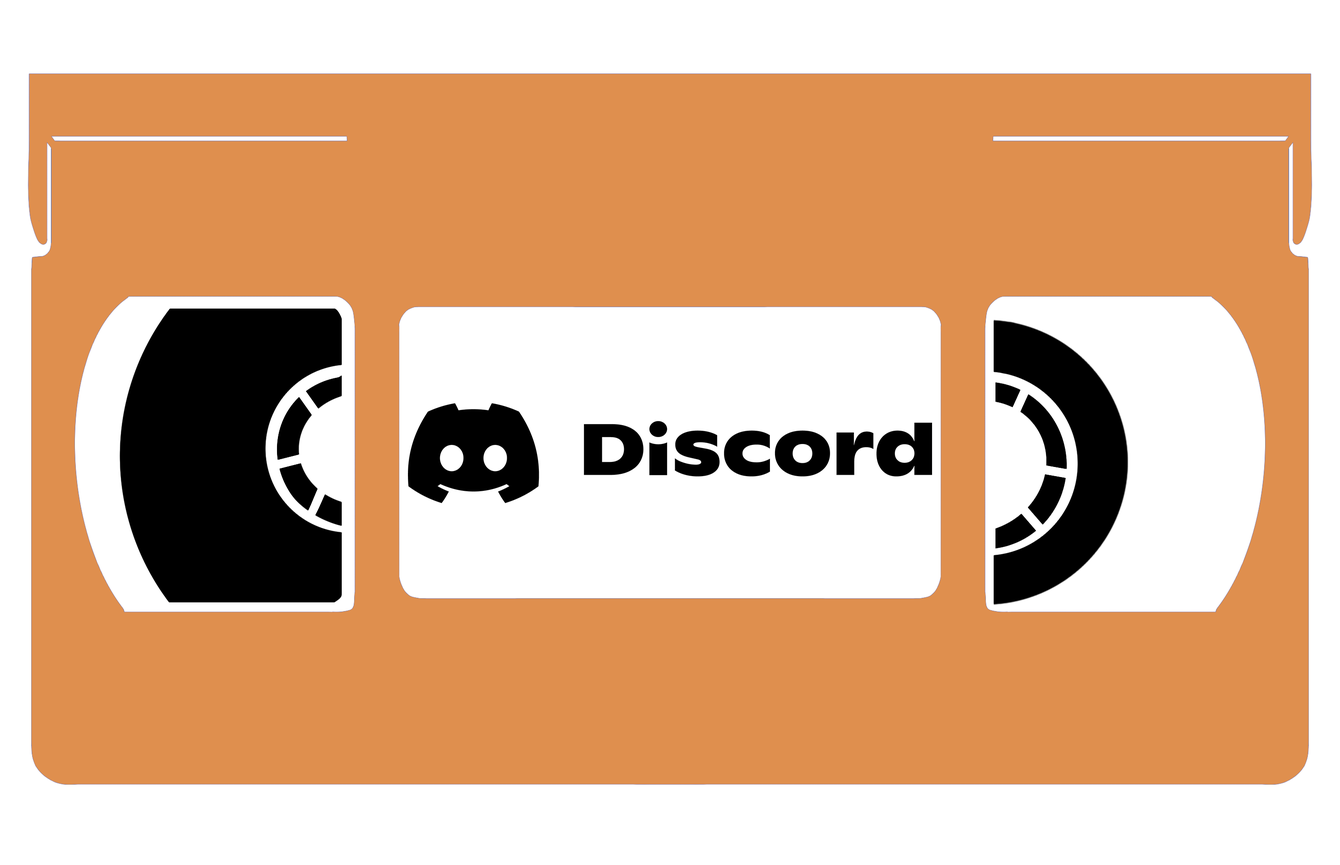
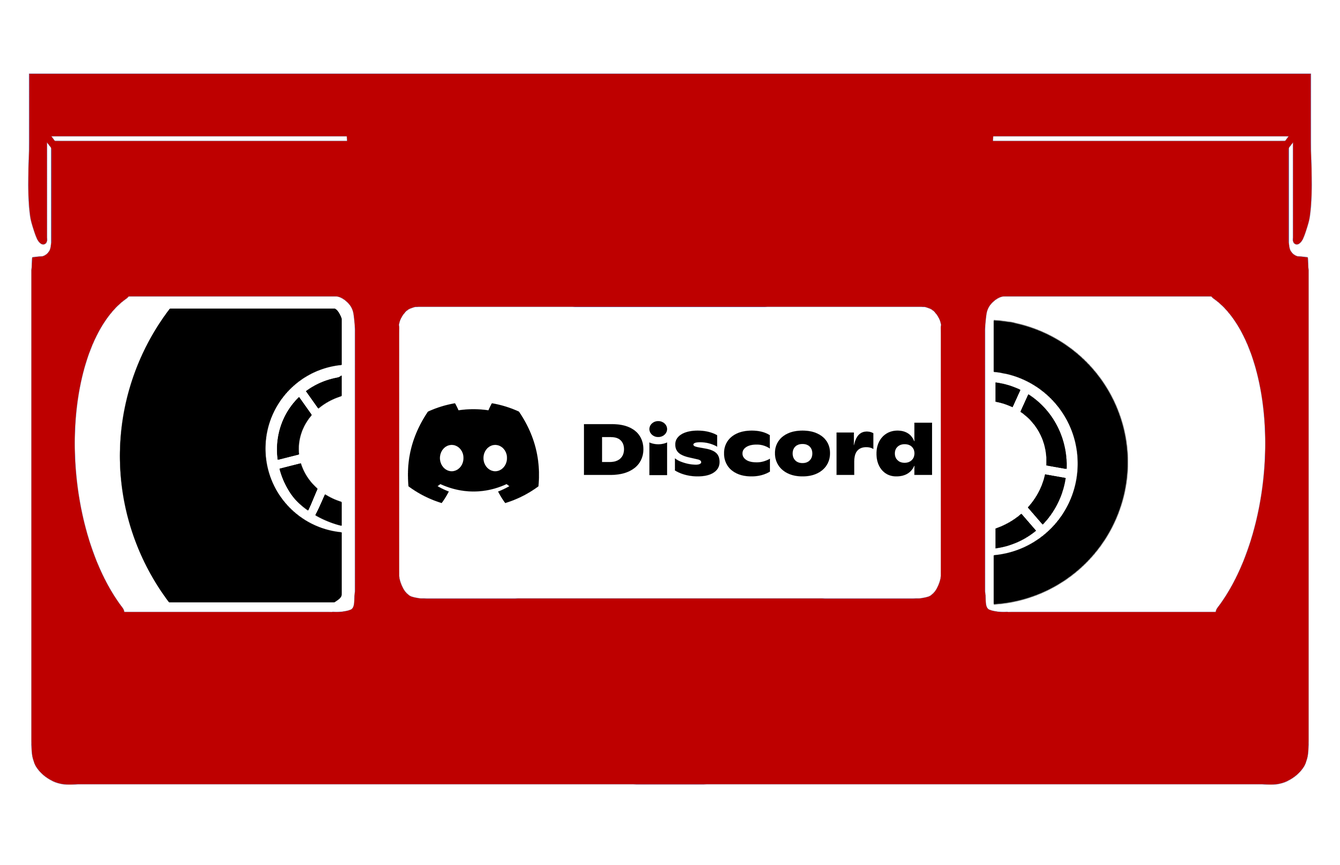
Portfolio Update need to add fishing

diff --git a/index.html b/index.html
@@ -9,36 +9,77 @@
     <meta property="og:description" content="" />
     <title>Jack May</title>
     <link rel="stylesheet" href="style.css">
-    <link rel="icon" href="branding/LogoSmallGreen.png">
+    <link rel="icon" href="branding/PFM_Logo12 - Copy.PNG">
     <meta name="viewport" content="width=device-width, initial-scale=1.0">
 </head>
 
 <body>
     <div class="header">
-        <img src="branding/LogoLongProductionsBaO.png" alt="Jack May Logo">
+        <img class="side-logo" style="max-width: 10vw;" src="branding/PFM_Logo12 - Copy.PNG" alt="Jack May Logo">
+        <img class="main-logo" src="branding/LogoLongProductionsBaO.png" alt="">
+        <img class="side-logo" style="max-width: 10vw;" src="branding/PFM_Logo12 - Copy.PNG" alt="Jack May Logo">
     </div>
 
     <div class="graphic-boxes">
-        <div class="colour1"><p>&shy;</p></div>
-        <div class="colour2"><p>&shy;</p></div>
+        <div class="colour1"><h1 style="color: #FFFFFF; margin-bottom: 0px;">Portfolio of Jack May</h1></div>
+        <div class="colour2">
+            <nav class="navbar">
+                <ul class="nav-links">
+                    <li><a href="unity.html">Unity</a></li>
+                    <li><a href="3dart.html">3D Art</a></li>
+                    <li><a href="unrealengine.html">Unreal</a></li>
+                </ul>
+                <div class="social-links">
+                    <!-- Add your social links here -->
+                    <a href="https://www.instagram.com/jack.may.dev/" target="_blank">
+                        <img src="branding/instagram.png" alt="Instagram" class="social-icon">
+                    </a>
+                    <a href="https://github.com/jackmay942149" target="_blank">
+                        <img src="branding/github.png" alt="GitHub" class="social-icon">
+                    </a>
+                    <a href="https://www.linkedin.com/in/jack-may-50154021b/" target="_blank">
+                        <img src="branding/linkedin.png" alt="LinkedIn" class="social-icon">
+                    </a>
+                    <a href="https://discord.gg/Yjrwbuq6qA" target="_blank">
+                        <img src="branding/discord.png" alt="Discord" class="social-icon">
+                    </a>
+                    <a href="https://jack-may.itch.io/" target="_blank">
+                        <img src="branding/itchio.png" alt="Itch.io" class="social-icon">
+                    </a>
+                </div>
+            </nav>
+        </div>
     </div>
 
-    <h1>Top 3 Projects</h1>
+    <h1>TOP 3 PROJECTS</h1>
 
+    <h2>Virtual International Collaboration - VR Game Development</h2>
+    <div class="showcase">
+        <div class="showcase-left showcase-text">
+            <p>This is a very exiting project I was able to work with as a three way collaborative effort between QUT, Banijay, and Breda University. It was a 6-7 week group project that allowed us to make a VR game using the MasterChef IP.</p>
+        </div>
+        <div class="showcase-right">
+            <center>
+                <blockquote class="instagram-media" data-instgrm-permalink="https://www.instagram.com/reel/C8b52tyvdZP/?utm_source=ig_embed&amp;utm_campaign=loading" data-instgrm-version="14" style=" background:#FFF; border:0; border-radius:3px; box-shadow:0 0 1px 0 rgba(0,0,0,0.5),0 1px 10px 0 rgba(0,0,0,0.15); margin: 1px; max-width:400px; min-width:326px; padding:0; width:99.375%; width:-webkit-calc(100% - 2px); width:calc(100% - 2px);"><div style="padding:16px;"> <a href="https://www.instagram.com/reel/C8b52tyvdZP/?utm_source=ig_embed&amp;utm_campaign=loading" style=" background:#FFFFFF; line-height:0; padding:0 0; text-align:center; text-decoration:none; width:100%;" target="_blank"> <div style=" display: flex; flex-direction: row; align-items: center;"> <div style="background-color: #F4F4F4; border-radius: 50%; flex-grow: 0; height: 40px; margin-right: 14px; width: 40px;"></div> <div style="display: flex; flex-direction: column; flex-grow: 1; justify-content: center;"> <div style=" background-color: #F4F4F4; border-radius: 4px; flex-grow: 0; height: 14px; margin-bottom: 6px; width: 100px;"></div> <div style=" background-color: #F4F4F4; border-radius: 4px; flex-grow: 0; height: 14px; width: 60px;"></div></div></div><div style="padding: 19% 0;"></div> <div style="display:block; height:50px; margin:0 auto 12px; width:50px;"><svg width="50px" height="50px" viewBox="0 0 60 60" version="1.1" xmlns="https://www.w3.org/2000/svg" xmlns:xlink="https://www.w3.org/1999/xlink"><g stroke="none" stroke-width="1" fill="none" fill-rule="evenodd"><g transform="translate(-511.000000, -20.000000)" fill="#000000"><g><path d="M556.869,30.41 C554.814,30.41 553.148,32.076 553.148,34.131 C553.148,36.186 554.814,37.852 556.869,37.852 C558.924,37.852 560.59,36.186 560.59,34.131 C560.59,32.076 558.924,30.41 556.869,30.41 M541,60.657 C535.114,60.657 530.342,55.887 530.342,50 C530.342,44.114 535.114,39.342 541,39.342 C546.887,39.342 551.658,44.114 551.658,50 C551.658,55.887 546.887,60.657 541,60.657 M541,33.886 C532.1,33.886 524.886,41.1 524.886,50 C524.886,58.899 532.1,66.113 541,66.113 C549.9,66.113 557.115,58.899 557.115,50 C557.115,41.1 549.9,33.886 541,33.886 M565.378,62.101 C565.244,65.022 564.756,66.606 564.346,67.663 C563.803,69.06 563.154,70.057 562.106,71.106 C561.058,72.155 560.06,72.803 558.662,73.347 C557.607,73.757 556.021,74.244 553.102,74.378 C549.944,74.521 548.997,74.552 541,74.552 C533.003,74.552 532.056,74.521 528.898,74.378 C525.979,74.244 524.393,73.757 523.338,73.347 C521.94,72.803 520.942,72.155 519.894,71.106 C518.846,70.057 518.197,69.06 517.654,67.663 C517.244,66.606 516.755,65.022 516.623,62.101 C516.479,58.943 516.448,57.996 516.448,50 C516.448,42.003 516.479,41.056 516.623,37.899 C516.755,34.978 517.244,33.391 517.654,32.338 C518.197,30.938 518.846,29.942 519.894,28.894 C520.942,27.846 521.94,27.196 523.338,26.654 C524.393,26.244 525.979,25.756 528.898,25.623 C532.057,25.479 533.004,25.448 541,25.448 C548.997,25.448 549.943,25.479 553.102,25.623 C556.021,25.756 557.607,26.244 558.662,26.654 C560.06,27.196 561.058,27.846 562.106,28.894 C563.154,29.942 563.803,30.938 564.346,32.338 C564.756,33.391 565.244,34.978 565.378,37.899 C565.522,41.056 565.552,42.003 565.552,50 C565.552,57.996 565.522,58.943 565.378,62.101 M570.82,37.631 C570.674,34.438 570.167,32.258 569.425,30.349 C568.659,28.377 567.633,26.702 565.965,25.035 C564.297,23.368 562.623,22.342 560.652,21.575 C558.743,20.834 556.562,20.326 553.369,20.18 C550.169,20.033 549.148,20 541,20 C532.853,20 531.831,20.033 528.631,20.18 C525.438,20.326 523.257,20.834 521.349,21.575 C519.376,22.342 517.703,23.368 516.035,25.035 C514.368,26.702 513.342,28.377 512.574,30.349 C511.834,32.258 511.326,34.438 511.181,37.631 C511.035,40.831 511,41.851 511,50 C511,58.147 511.035,59.17 511.181,62.369 C511.326,65.562 511.834,67.743 512.574,69.651 C513.342,71.625 514.368,73.296 516.035,74.965 C517.703,76.634 519.376,77.658 521.349,78.425 C523.257,79.167 525.438,79.673 528.631,79.82 C531.831,79.965 532.853,80.001 541,80.001 C549.148,80.001 550.169,79.965 553.369,79.82 C556.562,79.673 558.743,79.167 560.652,78.425 C562.623,77.658 564.297,76.634 565.965,74.965 C567.633,73.296 568.659,71.625 569.425,69.651 C570.167,67.743 570.674,65.562 570.82,62.369 C570.966,59.17 571,58.147 571,50 C571,41.851 570.966,40.831 570.82,37.631"></path></g></g></g></svg></div><div style="padding-top: 8px;"> <div style=" color:#3897f0; font-family:Arial,sans-serif; font-size:14px; font-style:normal; font-weight:550; line-height:18px;">View this post on Instagram</div></div><div style="padding: 12.5% 0;"></div> <div style="display: flex; flex-direction: row; margin-bottom: 14px; align-items: center;"><div> <div style="background-color: #F4F4F4; border-radius: 50%; height: 12.5px; width: 12.5px; transform: translateX(0px) translateY(7px);"></div> <div style="background-color: #F4F4F4; height: 12.5px; transform: rotate(-45deg) translateX(3px) translateY(1px); width: 12.5px; flex-grow: 0; margin-right: 14px; margin-left: 2px;"></div> <div style="background-color: #F4F4F4; border-radius: 50%; height: 12.5px; width: 12.5px; transform: translateX(9px) translateY(-18px);"></div></div><div style="margin-left: 8px;"> <div style=" background-color: #F4F4F4; border-radius: 50%; flex-grow: 0; height: 20px; width: 20px;"></div> <div style=" width: 0; height: 0; border-top: 2px solid transparent; border-left: 6px solid #f4f4f4; border-bottom: 2px solid transparent; transform: translateX(16px) translateY(-4px) rotate(30deg)"></div></div><div style="margin-left: auto;"> <div style=" width: 0px; border-top: 8px solid #F4F4F4; border-right: 8px solid transparent; transform: translateY(16px);"></div> <div style=" background-color: #F4F4F4; flex-grow: 0; height: 12px; width: 16px; transform: translateY(-4px);"></div> <div style=" width: 0; height: 0; border-top: 8px solid #F4F4F4; border-left: 8px solid transparent; transform: translateY(-4px) translateX(8px);"></div></div></div> <div style="display: flex; flex-direction: column; flex-grow: 1; justify-content: center; margin-bottom: 24px;"> <div style=" background-color: #F4F4F4; border-radius: 4px; flex-grow: 0; height: 14px; margin-bottom: 6px; width: 224px;"></div> <div style=" background-color: #F4F4F4; border-radius: 4px; flex-grow: 0; height: 14px; width: 144px;"></div></div></a><p style=" color:#c9c8cd; font-family:Arial,sans-serif; font-size:14px; line-height:17px; margin-bottom:0; margin-top:8px; overflow:hidden; padding:8px 0 7px; text-align:center; text-overflow:ellipsis; white-space:nowrap;"><a href="https://www.instagram.com/reel/C8b52tyvdZP/?utm_source=ig_embed&amp;utm_campaign=loading" style=" color:#c9c8cd; font-family:Arial,sans-serif; font-size:14px; font-style:normal; font-weight:normal; line-height:17px; text-decoration:none;" target="_blank">A post shared by @jack.may.dev</a></p></div></blockquote> <script async src="//www.instagram.com/embed.js"></script>
+            </center>
+        </div>
+    </div>
+
+    <h2>Unreal Engine Environmental Showcase</h2>
     <div class="showcase">
         <div class="showcase-left showcase-text">
             <p>This is a project I completed at Queensland University of Technology for the class KNB137. It involved creating an environmetal narrative that could be showcased in Unreal Engine. As an extention I added a very action-based narrative with a runtime vertex painter to give the water some life.</p>
         </div>
         <div class="showcase-right" >
             <center>
-                <blockquote class="instagram-media" data-instgrm-permalink="https://www.instagram.com/reel/C8N0RBQPLbO/?utm_source=ig_embed&amp;utm_campaign=loading" data-instgrm-version="14" style=" background:#FFF; border:0; border-radius:3px; box-shadow:0 0 1px 0 rgba(0,0,0,0.5),0 1px 10px 0 rgba(0,0,0,0.15); margin: 1px; max-width:540px; min-width:326px; padding:0; width:99.375%; width:-webkit-calc(100% - 2px); width:calc(100% - 2px);"><div style="padding:16px;"> <a href="https://www.instagram.com/reel/C8N0RBQPLbO/?utm_source=ig_embed&amp;utm_campaign=loading" style=" background:#FFFFFF; line-height:0; padding:0 0; text-align:center; text-decoration:none; width:100%;" target="_blank"> <div style=" display: flex; flex-direction: row; align-items: center;"> <div style="background-color: #F4F4F4; border-radius: 50%; flex-grow: 0; height: 40px; margin-right: 14px; width: 40px;"></div> <div style="display: flex; flex-direction: column; flex-grow: 1; justify-content: center;"> <div style=" background-color: #F4F4F4; border-radius: 4px; flex-grow: 0; height: 14px; margin-bottom: 6px; width: 100px;"></div> <div style=" background-color: #F4F4F4; border-radius: 4px; flex-grow: 0; height: 14px; width: 60px;"></div></div></div><div style="padding: 19% 0;"></div> <div style="display:block; height:50px; margin:0 auto 12px; width:50px;"><svg width="50px" height="50px" viewBox="0 0 60 60" version="1.1" xmlns="https://www.w3.org/2000/svg" xmlns:xlink="https://www.w3.org/1999/xlink"><g stroke="none" stroke-width="1" fill="none" fill-rule="evenodd"><g transform="translate(-511.000000, -20.000000)" fill="#000000"><g><path d="M556.869,30.41 C554.814,30.41 553.148,32.076 553.148,34.131 C553.148,36.186 554.814,37.852 556.869,37.852 C558.924,37.852 560.59,36.186 560.59,34.131 C560.59,32.076 558.924,30.41 556.869,30.41 M541,60.657 C535.114,60.657 530.342,55.887 530.342,50 C530.342,44.114 535.114,39.342 541,39.342 C546.887,39.342 551.658,44.114 551.658,50 C551.658,55.887 546.887,60.657 541,60.657 M541,33.886 C532.1,33.886 524.886,41.1 524.886,50 C524.886,58.899 532.1,66.113 541,66.113 C549.9,66.113 557.115,58.899 557.115,50 C557.115,41.1 549.9,33.886 541,33.886 M565.378,62.101 C565.244,65.022 564.756,66.606 564.346,67.663 C563.803,69.06 563.154,70.057 562.106,71.106 C561.058,72.155 560.06,72.803 558.662,73.347 C557.607,73.757 556.021,74.244 553.102,74.378 C549.944,74.521 548.997,74.552 541,74.552 C533.003,74.552 532.056,74.521 528.898,74.378 C525.979,74.244 524.393,73.757 523.338,73.347 C521.94,72.803 520.942,72.155 519.894,71.106 C518.846,70.057 518.197,69.06 517.654,67.663 C517.244,66.606 516.755,65.022 516.623,62.101 C516.479,58.943 516.448,57.996 516.448,50 C516.448,42.003 516.479,41.056 516.623,37.899 C516.755,34.978 517.244,33.391 517.654,32.338 C518.197,30.938 518.846,29.942 519.894,28.894 C520.942,27.846 521.94,27.196 523.338,26.654 C524.393,26.244 525.979,25.756 528.898,25.623 C532.057,25.479 533.004,25.448 541,25.448 C548.997,25.448 549.943,25.479 553.102,25.623 C556.021,25.756 557.607,26.244 558.662,26.654 C560.06,27.196 561.058,27.846 562.106,28.894 C563.154,29.942 563.803,30.938 564.346,32.338 C564.756,33.391 565.244,34.978 565.378,37.899 C565.522,41.056 565.552,42.003 565.552,50 C565.552,57.996 565.522,58.943 565.378,62.101 M570.82,37.631 C570.674,34.438 570.167,32.258 569.425,30.349 C568.659,28.377 567.633,26.702 565.965,25.035 C564.297,23.368 562.623,22.342 560.652,21.575 C558.743,20.834 556.562,20.326 553.369,20.18 C550.169,20.033 549.148,20 541,20 C532.853,20 531.831,20.033 528.631,20.18 C525.438,20.326 523.257,20.834 521.349,21.575 C519.376,22.342 517.703,23.368 516.035,25.035 C514.368,26.702 513.342,28.377 512.574,30.349 C511.834,32.258 511.326,34.438 511.181,37.631 C511.035,40.831 511,41.851 511,50 C511,58.147 511.035,59.17 511.181,62.369 C511.326,65.562 511.834,67.743 512.574,69.651 C513.342,71.625 514.368,73.296 516.035,74.965 C517.703,76.634 519.376,77.658 521.349,78.425 C523.257,79.167 525.438,79.673 528.631,79.82 C531.831,79.965 532.853,80.001 541,80.001 C549.148,80.001 550.169,79.965 553.369,79.82 C556.562,79.673 558.743,79.167 560.652,78.425 C562.623,77.658 564.297,76.634 565.965,74.965 C567.633,73.296 568.659,71.625 569.425,69.651 C570.167,67.743 570.674,65.562 570.82,62.369 C570.966,59.17 571,58.147 571,50 C571,41.851 570.966,40.831 570.82,37.631"></path></g></g></g></svg></div><div style="padding-top: 8px;"> <div style=" color:#3897f0; font-family:Arial,sans-serif; font-size:14px; font-style:normal; font-weight:550; line-height:18px;">View this post on Instagram</div></div><div style="padding: 12.5% 0;"></div> <div style="display: flex; flex-direction: row; margin-bottom: 14px; align-items: center;"><div> <div style="background-color: #F4F4F4; border-radius: 50%; height: 12.5px; width: 12.5px; transform: translateX(0px) translateY(7px);"></div> <div style="background-color: #F4F4F4; height: 12.5px; transform: rotate(-45deg) translateX(3px) translateY(1px); width: 12.5px; flex-grow: 0; margin-right: 14px; margin-left: 2px;"></div> <div style="background-color: #F4F4F4; border-radius: 50%; height: 12.5px; width: 12.5px; transform: translateX(9px) translateY(-18px);"></div></div><div style="margin-left: 8px;"> <div style=" background-color: #F4F4F4; border-radius: 50%; flex-grow: 0; height: 20px; width: 20px;"></div> <div style=" width: 0; height: 0; border-top: 2px solid transparent; border-left: 6px solid #f4f4f4; border-bottom: 2px solid transparent; transform: translateX(16px) translateY(-4px) rotate(30deg)"></div></div><div style="margin-left: auto;"> <div style=" width: 0px; border-top: 8px solid #F4F4F4; border-right: 8px solid transparent; transform: translateY(16px);"></div> <div style=" background-color: #F4F4F4; flex-grow: 0; height: 12px; width: 16px; transform: translateY(-4px);"></div> <div style=" width: 0; height: 0; border-top: 8px solid #F4F4F4; border-left: 8px solid transparent; transform: translateY(-4px) translateX(8px);"></div></div></div> <div style="display: flex; flex-direction: column; flex-grow: 1; justify-content: center; margin-bottom: 24px;"> <div style=" background-color: #F4F4F4; border-radius: 4px; flex-grow: 0; height: 14px; margin-bottom: 6px; width: 224px;"></div> <div style=" background-color: #F4F4F4; border-radius: 4px; flex-grow: 0; height: 14px; width: 144px;"></div></div></a><p style=" color:#c9c8cd; font-family:Arial,sans-serif; font-size:14px; line-height:17px; margin-bottom:0; margin-top:8px; overflow:hidden; padding:8px 0 7px; text-align:center; text-overflow:ellipsis; white-space:nowrap;"><a href="https://www.instagram.com/reel/C8N0RBQPLbO/?utm_source=ig_embed&amp;utm_campaign=loading" style=" color:#c9c8cd; font-family:Arial,sans-serif; font-size:14px; font-style:normal; font-weight:normal; line-height:17px; text-decoration:none;" target="_blank">A post shared by @jack.may.dev</a></p></div></blockquote> <script async src="//www.instagram.com/embed.js"></script>
+                <blockquote class="instagram-media" data-instgrm-permalink="https://www.instagram.com/reel/C8N0RBQPLbO/?utm_source=ig_embed&amp;utm_campaign=loading" data-instgrm-version="14" style=" background:#FFF; border:0; border-radius:3px; box-shadow:0 0 1px 0 rgba(0,0,0,0.5),0 1px 10px 0 rgba(0,0,0,0.15); margin: 1px; max-width:400px; min-width:326px; padding:0; width:99.375%; width:-webkit-calc(100% - 2px); width:calc(100% - 2px);"><div style="padding:16px;"> <a href="https://www.instagram.com/reel/C8N0RBQPLbO/?utm_source=ig_embed&amp;utm_campaign=loading" style=" background:#FFFFFF; line-height:0; padding:0 0; text-align:center; text-decoration:none; width:100%;" target="_blank"> <div style=" display: flex; flex-direction: row; align-items: center;"> <div style="background-color: #F4F4F4; border-radius: 50%; flex-grow: 0; height: 40px; margin-right: 14px; width: 40px;"></div> <div style="display: flex; flex-direction: column; flex-grow: 1; justify-content: center;"> <div style=" background-color: #F4F4F4; border-radius: 4px; flex-grow: 0; height: 14px; margin-bottom: 6px; width: 100px;"></div> <div style=" background-color: #F4F4F4; border-radius: 4px; flex-grow: 0; height: 14px; width: 60px;"></div></div></div><div style="padding: 19% 0;"></div> <div style="display:block; height:50px; margin:0 auto 12px; width:50px;"><svg width="50px" height="50px" viewBox="0 0 60 60" version="1.1" xmlns="https://www.w3.org/2000/svg" xmlns:xlink="https://www.w3.org/1999/xlink"><g stroke="none" stroke-width="1" fill="none" fill-rule="evenodd"><g transform="translate(-511.000000, -20.000000)" fill="#000000"><g><path d="M556.869,30.41 C554.814,30.41 553.148,32.076 553.148,34.131 C553.148,36.186 554.814,37.852 556.869,37.852 C558.924,37.852 560.59,36.186 560.59,34.131 C560.59,32.076 558.924,30.41 556.869,30.41 M541,60.657 C535.114,60.657 530.342,55.887 530.342,50 C530.342,44.114 535.114,39.342 541,39.342 C546.887,39.342 551.658,44.114 551.658,50 C551.658,55.887 546.887,60.657 541,60.657 M541,33.886 C532.1,33.886 524.886,41.1 524.886,50 C524.886,58.899 532.1,66.113 541,66.113 C549.9,66.113 557.115,58.899 557.115,50 C557.115,41.1 549.9,33.886 541,33.886 M565.378,62.101 C565.244,65.022 564.756,66.606 564.346,67.663 C563.803,69.06 563.154,70.057 562.106,71.106 C561.058,72.155 560.06,72.803 558.662,73.347 C557.607,73.757 556.021,74.244 553.102,74.378 C549.944,74.521 548.997,74.552 541,74.552 C533.003,74.552 532.056,74.521 528.898,74.378 C525.979,74.244 524.393,73.757 523.338,73.347 C521.94,72.803 520.942,72.155 519.894,71.106 C518.846,70.057 518.197,69.06 517.654,67.663 C517.244,66.606 516.755,65.022 516.623,62.101 C516.479,58.943 516.448,57.996 516.448,50 C516.448,42.003 516.479,41.056 516.623,37.899 C516.755,34.978 517.244,33.391 517.654,32.338 C518.197,30.938 518.846,29.942 519.894,28.894 C520.942,27.846 521.94,27.196 523.338,26.654 C524.393,26.244 525.979,25.756 528.898,25.623 C532.057,25.479 533.004,25.448 541,25.448 C548.997,25.448 549.943,25.479 553.102,25.623 C556.021,25.756 557.607,26.244 558.662,26.654 C560.06,27.196 561.058,27.846 562.106,28.894 C563.154,29.942 563.803,30.938 564.346,32.338 C564.756,33.391 565.244,34.978 565.378,37.899 C565.522,41.056 565.552,42.003 565.552,50 C565.552,57.996 565.522,58.943 565.378,62.101 M570.82,37.631 C570.674,34.438 570.167,32.258 569.425,30.349 C568.659,28.377 567.633,26.702 565.965,25.035 C564.297,23.368 562.623,22.342 560.652,21.575 C558.743,20.834 556.562,20.326 553.369,20.18 C550.169,20.033 549.148,20 541,20 C532.853,20 531.831,20.033 528.631,20.18 C525.438,20.326 523.257,20.834 521.349,21.575 C519.376,22.342 517.703,23.368 516.035,25.035 C514.368,26.702 513.342,28.377 512.574,30.349 C511.834,32.258 511.326,34.438 511.181,37.631 C511.035,40.831 511,41.851 511,50 C511,58.147 511.035,59.17 511.181,62.369 C511.326,65.562 511.834,67.743 512.574,69.651 C513.342,71.625 514.368,73.296 516.035,74.965 C517.703,76.634 519.376,77.658 521.349,78.425 C523.257,79.167 525.438,79.673 528.631,79.82 C531.831,79.965 532.853,80.001 541,80.001 C549.148,80.001 550.169,79.965 553.369,79.82 C556.562,79.673 558.743,79.167 560.652,78.425 C562.623,77.658 564.297,76.634 565.965,74.965 C567.633,73.296 568.659,71.625 569.425,69.651 C570.167,67.743 570.674,65.562 570.82,62.369 C570.966,59.17 571,58.147 571,50 C571,41.851 570.966,40.831 570.82,37.631"></path></g></g></g></svg></div><div style="padding-top: 8px;"> <div style=" color:#3897f0; font-family:Arial,sans-serif; font-size:14px; font-style:normal; font-weight:550; line-height:18px;">View this post on Instagram</div></div><div style="padding: 12.5% 0;"></div> <div style="display: flex; flex-direction: row; margin-bottom: 14px; align-items: center;"><div> <div style="background-color: #F4F4F4; border-radius: 50%; height: 12.5px; width: 12.5px; transform: translateX(0px) translateY(7px);"></div> <div style="background-color: #F4F4F4; height: 12.5px; transform: rotate(-45deg) translateX(3px) translateY(1px); width: 12.5px; flex-grow: 0; margin-right: 14px; margin-left: 2px;"></div> <div style="background-color: #F4F4F4; border-radius: 50%; height: 12.5px; width: 12.5px; transform: translateX(9px) translateY(-18px);"></div></div><div style="margin-left: 8px;"> <div style=" background-color: #F4F4F4; border-radius: 50%; flex-grow: 0; height: 20px; width: 20px;"></div> <div style=" width: 0; height: 0; border-top: 2px solid transparent; border-left: 6px solid #f4f4f4; border-bottom: 2px solid transparent; transform: translateX(16px) translateY(-4px) rotate(30deg)"></div></div><div style="margin-left: auto;"> <div style=" width: 0px; border-top: 8px solid #F4F4F4; border-right: 8px solid transparent; transform: translateY(16px);"></div> <div style=" background-color: #F4F4F4; flex-grow: 0; height: 12px; width: 16px; transform: translateY(-4px);"></div> <div style=" width: 0; height: 0; border-top: 8px solid #F4F4F4; border-left: 8px solid transparent; transform: translateY(-4px) translateX(8px);"></div></div></div> <div style="display: flex; flex-direction: column; flex-grow: 1; justify-content: center; margin-bottom: 24px;"> <div style=" background-color: #F4F4F4; border-radius: 4px; flex-grow: 0; height: 14px; margin-bottom: 6px; width: 224px;"></div> <div style=" background-color: #F4F4F4; border-radius: 4px; flex-grow: 0; height: 14px; width: 144px;"></div></div></a><p style=" color:#c9c8cd; font-family:Arial,sans-serif; font-size:14px; line-height:17px; margin-bottom:0; margin-top:8px; overflow:hidden; padding:8px 0 7px; text-align:center; text-overflow:ellipsis; white-space:nowrap;"><a href="https://www.instagram.com/reel/C8N0RBQPLbO/?utm_source=ig_embed&amp;utm_campaign=loading" style=" color:#c9c8cd; font-family:Arial,sans-serif; font-size:14px; font-style:normal; font-weight:normal; line-height:17px; text-decoration:none;" target="_blank">A post shared by @jack.may.dev</a></p></div></blockquote> <script async src="//www.instagram.com/embed.js"></script>
             </center>
         </div>
     </div>
 
 
 
-    <h1 style="color: #4e9dde;">Full Portfolio</h1>
+    <h1>Full Portfolio</h1>
     <div class="vhs-tapes">
         <a href="./unrealengine.html"><img src="branding/UEVHS.png" alt=""></a>
         <a href="./3dart.html"><img src="branding/3DARTVHS.png" alt=""></a>
@@ -48,9 +89,10 @@
 
     <h1>Networking</h1>
     <div class="vhs-tapes">
-        <a href="https://www.instagram.com/jackmay3dart/"><img src="branding/InstagramIOVHS.png" alt=""></a>
+        <a href="https://www.instagram.com/jack.may.dev/"><img src="branding/InstagramIOVHS.png" alt=""></a>
         <a href="https://www.linkedin.com/in/jack-may-50154021b/"><img src="branding/LinkedInVHS.png" alt=""></a>
         <a href="https://discord.gg/Yjrwbuq6qA"><img src="branding/DiscordVHS.png" alt=""></a>
         <a href="https://github.com/jackmay942149"><img src="branding\GitHubVHS.png" alt=""></a>
+        <a href="https://jack-may.itch.io/"><img src="branding\ItchIOVHS.PNG" alt=""></a>
     </div>
 </body>

diff --git a/unity.html b/unity.html
@@ -15,15 +15,55 @@
 
 <body>
     <div class="header">
-        <a href="./index.html"><img src="branding/LogoLongProductionsBaO.png" alt="Jack May Logo"></a>
+        <img class="side-logo" style="max-width: 10vw;" src="branding/PFM_Logo12 - Copy.PNG" alt="Jack May Logo">
+        <img class="main-logo" src="branding/LogoLongProductionsBaO.png" alt="">
+        <img class="side-logo" style="max-width: 10vw;" src="branding/PFM_Logo12 - Copy.PNG" alt="Jack May Logo">
     </div>
 
     <div class="graphic-boxes">
-        <div class="colour1"><p>&shy;</p></div>
-        <div class="colour2"><p>&shy;</p></div>
+        <div class="colour1"><h1 style="color: #FFFFFF; margin-bottom: 0px;">Portfolio of Jack May</h1></div>
+        <div class="colour2">
+            <nav class="navbar">
+                <ul class="nav-links">
+                    <li><a href="index.html">Top 3</a></li>
+                    <li><a href="3dart.html">3D Art</a></li>
+                    <li><a href="unrealengine.html">Unreal</a></li>
+                </ul>
+                <div class="social-links">
+                    <!-- Add your social links here -->
+                    <a href="https://instagram.com" target="_blank">
+                        <img src="branding/instagram.png" alt="Instagram" class="social-icon">
+                    </a>
+                    <a href="https://github.com" target="_blank">
+                        <img src="branding/github.png" alt="GitHub" class="social-icon">
+                    </a>
+                    <a href="https://linkedin.com" target="_blank">
+                        <img src="branding/linkedin.png" alt="LinkedIn" class="social-icon">
+                    </a>
+                    <a href="https://discord.com" target="_blank">
+                        <img src="branding/discord.png" alt="Discord" class="social-icon">
+                    </a>
+                    <a href="https://itch.io" target="_blank">
+                        <img src="branding/itchio.png" alt="Itch.io" class="social-icon">
+                    </a>
+                </div>
+            </nav>
+        </div>
     </div>
 
     <h1>Unity Projects</h1>
+
+    <h2>Virtual International Collaboration -  VR Game Development</h2>
+    <div class="showcase">
+        <div class="showcase-left showcase-text">
+            <p>This is a very exiting project I was able to work with as a three way collaborative effort between QUT, Banijay, and Breda University. It was a 6-7 week group project that allowed us to make a VR game using the MasterChef IP.</p>
+        </div>
+        <div class="showcase-right">
+            <center>
+                <blockquote class="instagram-media" data-instgrm-permalink="https://www.instagram.com/reel/C8b52tyvdZP/?utm_source=ig_embed&amp;utm_campaign=loading" data-instgrm-version="14" style=" background:#FFF; border:0; border-radius:3px; box-shadow:0 0 1px 0 rgba(0,0,0,0.5),0 1px 10px 0 rgba(0,0,0,0.15); margin: 1px; max-width:540px; min-width:326px; padding:0; width:99.375%; width:-webkit-calc(100% - 2px); width:calc(100% - 2px);"><div style="padding:16px;"> <a href="https://www.instagram.com/reel/C8b52tyvdZP/?utm_source=ig_embed&amp;utm_campaign=loading" style=" background:#FFFFFF; line-height:0; padding:0 0; text-align:center; text-decoration:none; width:100%;" target="_blank"> <div style=" display: flex; flex-direction: row; align-items: center;"> <div style="background-color: #F4F4F4; border-radius: 50%; flex-grow: 0; height: 40px; margin-right: 14px; width: 40px;"></div> <div style="display: flex; flex-direction: column; flex-grow: 1; justify-content: center;"> <div style=" background-color: #F4F4F4; border-radius: 4px; flex-grow: 0; height: 14px; margin-bottom: 6px; width: 100px;"></div> <div style=" background-color: #F4F4F4; border-radius: 4px; flex-grow: 0; height: 14px; width: 60px;"></div></div></div><div style="padding: 19% 0;"></div> <div style="display:block; height:50px; margin:0 auto 12px; width:50px;"><svg width="50px" height="50px" viewBox="0 0 60 60" version="1.1" xmlns="https://www.w3.org/2000/svg" xmlns:xlink="https://www.w3.org/1999/xlink"><g stroke="none" stroke-width="1" fill="none" fill-rule="evenodd"><g transform="translate(-511.000000, -20.000000)" fill="#000000"><g><path d="M556.869,30.41 C554.814,30.41 553.148,32.076 553.148,34.131 C553.148,36.186 554.814,37.852 556.869,37.852 C558.924,37.852 560.59,36.186 560.59,34.131 C560.59,32.076 558.924,30.41 556.869,30.41 M541,60.657 C535.114,60.657 530.342,55.887 530.342,50 C530.342,44.114 535.114,39.342 541,39.342 C546.887,39.342 551.658,44.114 551.658,50 C551.658,55.887 546.887,60.657 541,60.657 M541,33.886 C532.1,33.886 524.886,41.1 524.886,50 C524.886,58.899 532.1,66.113 541,66.113 C549.9,66.113 557.115,58.899 557.115,50 C557.115,41.1 549.9,33.886 541,33.886 M565.378,62.101 C565.244,65.022 564.756,66.606 564.346,67.663 C563.803,69.06 563.154,70.057 562.106,71.106 C561.058,72.155 560.06,72.803 558.662,73.347 C557.607,73.757 556.021,74.244 553.102,74.378 C549.944,74.521 548.997,74.552 541,74.552 C533.003,74.552 532.056,74.521 528.898,74.378 C525.979,74.244 524.393,73.757 523.338,73.347 C521.94,72.803 520.942,72.155 519.894,71.106 C518.846,70.057 518.197,69.06 517.654,67.663 C517.244,66.606 516.755,65.022 516.623,62.101 C516.479,58.943 516.448,57.996 516.448,50 C516.448,42.003 516.479,41.056 516.623,37.899 C516.755,34.978 517.244,33.391 517.654,32.338 C518.197,30.938 518.846,29.942 519.894,28.894 C520.942,27.846 521.94,27.196 523.338,26.654 C524.393,26.244 525.979,25.756 528.898,25.623 C532.057,25.479 533.004,25.448 541,25.448 C548.997,25.448 549.943,25.479 553.102,25.623 C556.021,25.756 557.607,26.244 558.662,26.654 C560.06,27.196 561.058,27.846 562.106,28.894 C563.154,29.942 563.803,30.938 564.346,32.338 C564.756,33.391 565.244,34.978 565.378,37.899 C565.522,41.056 565.552,42.003 565.552,50 C565.552,57.996 565.522,58.943 565.378,62.101 M570.82,37.631 C570.674,34.438 570.167,32.258 569.425,30.349 C568.659,28.377 567.633,26.702 565.965,25.035 C564.297,23.368 562.623,22.342 560.652,21.575 C558.743,20.834 556.562,20.326 553.369,20.18 C550.169,20.033 549.148,20 541,20 C532.853,20 531.831,20.033 528.631,20.18 C525.438,20.326 523.257,20.834 521.349,21.575 C519.376,22.342 517.703,23.368 516.035,25.035 C514.368,26.702 513.342,28.377 512.574,30.349 C511.834,32.258 511.326,34.438 511.181,37.631 C511.035,40.831 511,41.851 511,50 C511,58.147 511.035,59.17 511.181,62.369 C511.326,65.562 511.834,67.743 512.574,69.651 C513.342,71.625 514.368,73.296 516.035,74.965 C517.703,76.634 519.376,77.658 521.349,78.425 C523.257,79.167 525.438,79.673 528.631,79.82 C531.831,79.965 532.853,80.001 541,80.001 C549.148,80.001 550.169,79.965 553.369,79.82 C556.562,79.673 558.743,79.167 560.652,78.425 C562.623,77.658 564.297,76.634 565.965,74.965 C567.633,73.296 568.659,71.625 569.425,69.651 C570.167,67.743 570.674,65.562 570.82,62.369 C570.966,59.17 571,58.147 571,50 C571,41.851 570.966,40.831 570.82,37.631"></path></g></g></g></svg></div><div style="padding-top: 8px;"> <div style=" color:#3897f0; font-family:Arial,sans-serif; font-size:14px; font-style:normal; font-weight:550; line-height:18px;">View this post on Instagram</div></div><div style="padding: 12.5% 0;"></div> <div style="display: flex; flex-direction: row; margin-bottom: 14px; align-items: center;"><div> <div style="background-color: #F4F4F4; border-radius: 50%; height: 12.5px; width: 12.5px; transform: translateX(0px) translateY(7px);"></div> <div style="background-color: #F4F4F4; height: 12.5px; transform: rotate(-45deg) translateX(3px) translateY(1px); width: 12.5px; flex-grow: 0; margin-right: 14px; margin-left: 2px;"></div> <div style="background-color: #F4F4F4; border-radius: 50%; height: 12.5px; width: 12.5px; transform: translateX(9px) translateY(-18px);"></div></div><div style="margin-left: 8px;"> <div style=" background-color: #F4F4F4; border-radius: 50%; flex-grow: 0; height: 20px; width: 20px;"></div> <div style=" width: 0; height: 0; border-top: 2px solid transparent; border-left: 6px solid #f4f4f4; border-bottom: 2px solid transparent; transform: translateX(16px) translateY(-4px) rotate(30deg)"></div></div><div style="margin-left: auto;"> <div style=" width: 0px; border-top: 8px solid #F4F4F4; border-right: 8px solid transparent; transform: translateY(16px);"></div> <div style=" background-color: #F4F4F4; flex-grow: 0; height: 12px; width: 16px; transform: translateY(-4px);"></div> <div style=" width: 0; height: 0; border-top: 8px solid #F4F4F4; border-left: 8px solid transparent; transform: translateY(-4px) translateX(8px);"></div></div></div> <div style="display: flex; flex-direction: column; flex-grow: 1; justify-content: center; margin-bottom: 24px;"> <div style=" background-color: #F4F4F4; border-radius: 4px; flex-grow: 0; height: 14px; margin-bottom: 6px; width: 224px;"></div> <div style=" background-color: #F4F4F4; border-radius: 4px; flex-grow: 0; height: 14px; width: 144px;"></div></div></a><p style=" color:#c9c8cd; font-family:Arial,sans-serif; font-size:14px; line-height:17px; margin-bottom:0; margin-top:8px; overflow:hidden; padding:8px 0 7px; text-align:center; text-overflow:ellipsis; white-space:nowrap;"><a href="https://www.instagram.com/reel/C8b52tyvdZP/?utm_source=ig_embed&amp;utm_campaign=loading" style=" color:#c9c8cd; font-family:Arial,sans-serif; font-size:14px; font-style:normal; font-weight:normal; line-height:17px; text-decoration:none;" target="_blank">A post shared by @jack.may.dev</a></p></div></blockquote> <script async src="//www.instagram.com/embed.js"></script>
+            </center>
+        </div>
+    </div>
 
     <h2>Solo Game-Jam</h2>
     <div class="showcase">

diff --git a/unrealengine.html b/unrealengine.html
@@ -15,12 +15,40 @@
 
 <body>
     <div class="header">
-        <a href="./index.html"><img src="branding/LogoLongProductionsBaO.png" alt="Jack May Logo"></a>
+        <img class="side-logo" style="max-width: 10vw;" src="branding/PFM_Logo12 - Copy.PNG" alt="Jack May Logo">
+        <img class="main-logo" src="branding/LogoLongProductionsBaO.png" alt="">
+        <img class="side-logo" style="max-width: 10vw;" src="branding/PFM_Logo12 - Copy.PNG" alt="Jack May Logo">
     </div>
 
     <div class="graphic-boxes">
-        <div class="colour1"><p>&shy;</p></div>
-        <div class="colour2"><p>&shy;</p></div>
+        <div class="colour1"><h1 style="color: #FFFFFF; margin-bottom: 0px;">Portfolio of Jack May</h1></div>
+        <div class="colour2">
+            <nav class="navbar">
+                <ul class="nav-links">
+                    <li><a href="index.html">Top 3</a></li>
+                    <li><a href="unity.html">Unity</a></li>
+                    <li><a href="3dart.html">3D Art</a></li>
+                </ul>
+                <div class="social-links">
+                    <!-- Add your social links here -->
+                    <a href="https://instagram.com" target="_blank">
+                        <img src="branding/instagram.png" alt="Instagram" class="social-icon">
+                    </a>
+                    <a href="https://github.com" target="_blank">
+                        <img src="branding/github.png" alt="GitHub" class="social-icon">
+                    </a>
+                    <a href="https://linkedin.com" target="_blank">
+                        <img src="branding/linkedin.png" alt="LinkedIn" class="social-icon">
+                    </a>
+                    <a href="https://discord.com" target="_blank">
+                        <img src="branding/discord.png" alt="Discord" class="social-icon">
+                    </a>
+                    <a href="https://itch.io" target="_blank">
+                        <img src="branding/itchio.png" alt="Itch.io" class="social-icon">
+                    </a>
+                </div>
+            </nav>
+        </div>
     </div>
 
     <h1>Unreal Engine Projects</h1>
@@ -68,7 +96,7 @@
             </center>
         </div>
         <div class="showcase-right showcase-text">
-            <p>This is a project I completed at Queensland University if Technology for the class KNB137. It involved the creation of 3D assets and the use of several Unreal tools including foliage and vertex painting</p>
+            <p>This is a project I completed at Queensland University if Technology for the class KNB137. It involved the creation of 3D assets and the use of several Unreal tools including foliage and vertex painting.</p>
         </div>
     </div>
 </body>

diff --git a/3dart.html b/3dart.html
@@ -15,12 +15,40 @@
 
 <body>
     <div class="header">
-        <a href="./index.html"><img src="branding/LogoLongProductionsBaO.png" alt="Jack May Logo"></a>
+        <img class="side-logo" style="max-width: 10vw;" src="branding/PFM_Logo12 - Copy.PNG" alt="Jack May Logo">
+        <img class="main-logo" src="branding/LogoLongProductionsBaO.png" alt="">
+        <img class="side-logo" style="max-width: 10vw;" src="branding/PFM_Logo12 - Copy.PNG" alt="Jack May Logo">
     </div>
 
     <div class="graphic-boxes">
-        <div class="colour1"><p>&shy;</p></div>
-        <div class="colour2"><p>&shy;</p></div>
+        <div class="colour1"><h1 style="color: #FFFFFF; margin-bottom: 0px;">Portfolio of Jack May</h1></div>
+        <div class="colour2">
+            <nav class="navbar">
+                <ul class="nav-links">
+                    <li><a href="index.html">Top 3</a></li>
+                    <li><a href="unity.html">Unity</a></li>
+                    <li><a href="unrealengine.html">Unreal</a></li>
+                </ul>
+                <div class="social-links">
+                    <!-- Add your social links here -->
+                    <a href="https://instagram.com" target="_blank">
+                        <img src="branding/instagram.png" alt="Instagram" class="social-icon">
+                    </a>
+                    <a href="https://github.com" target="_blank">
+                        <img src="branding/github.png" alt="GitHub" class="social-icon">
+                    </a>
+                    <a href="https://linkedin.com" target="_blank">
+                        <img src="branding/linkedin.png" alt="LinkedIn" class="social-icon">
+                    </a>
+                    <a href="https://discord.com" target="_blank">
+                        <img src="branding/discord.png" alt="Discord" class="social-icon">
+                    </a>
+                    <a href="https://itch.io" target="_blank">
+                        <img src="branding/itchio.png" alt="Itch.io" class="social-icon">
+                    </a>
+                </div>
+            </nav>
+        </div>
     </div>
 
     <h1>3D Art Projects</h1>

diff --git a/style.css b/style.css
@@ -3,7 +3,7 @@
 body {
     margin: 0px;
     background-color: #ffffff;
-    color: #df8f4e;
+    color: rgb(0, 0, 0);
     text-align: center;
     font-size: 32px;
     font-family: 'Cascadia Code', sans-serif;
@@ -26,28 +26,100 @@ h2 {
 }
 
 .header img {
-    max-width: 60vw;
     padding: 12px;
+}
+
+.main-logo {
+    max-width: 35vw;
 }
 
 @media (max-width: 1000px)
 {
     .header img {
-        max-width: 90vw;
+        max-width: 50vw;
         padding: 12px;
     }
 
     body {
         font-size: 16px;
     }
+
+    .side-logo {
+        display: none;
+    }
+
+    .main-logo {
+        min-width: 70vw;
+    }
 }
 
 .colour1 {
-    background-color: #4e9dde   
+    background-color: rgb(0, 0, 0);   
 }
 
 .colour2 {
-    background-color: #df8f4e;
+    background-color: rgb(190, 0, 0);
+}
+
+.navbar {
+    display: flex;
+    justify-content: space-between;
+    align-items: center;
+    padding: 10px 20px;
+}
+
+.nav-links {
+    list-style: none;
+    padding: 0;
+    margin: 0;
+    display: flex;
+}
+
+.nav-links li {
+    margin-right: 40px;
+}
+
+.nav-links a {
+    color: white;
+    text-decoration: none;
+    font-size: 24px;
+    transition: 0.3s;
+}
+
+.nav-links a:hover {
+    font-size: 32px;
+}
+
+.social-links {
+    display: flex;
+}
+
+.social-links a {
+    margin-left: 20px;
+}
+
+.social-icon {
+    width: 24px; /* Adjust the size as needed */
+    height: 24px; /* Adjust the size as needed */
+    -webkit-filter: invert(1);
+    filter: invert(1);
+    transition: 0.3s;
+}
+
+.social-icon:hover {
+    width: 28px;
+    height: 28px;
+}
+
+/* Hide the navbar on devices with width less than 1000px */
+@media screen and (max-width: 999px) {
+    .navbar {
+        display: none;
+    }
+
+    .colour1 {
+        display: block;
+    }
 }
 
 
